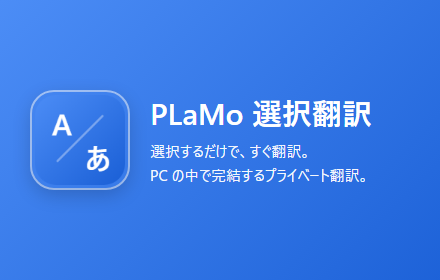
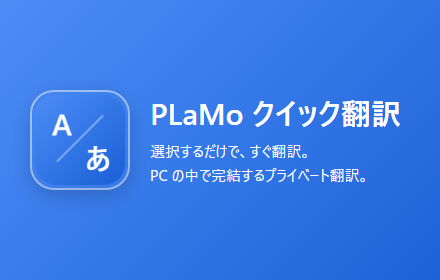
1.3.0: 名前を「PLaMo クイック翻訳」に変更(ストア公開後にリリース予定)
- manifest / 設定画面 / 説明書 / README / プライバシーポリシー / ストア掲載文の名前を変更
- プロモーション タイル画像を作り直し
- 自動起動のショートカット名を変更。旧名「PLaMo 選択翻訳サーバー.lnk」も登録・解除時に削除する

Changed region(s): [[0.5614, 0.3429, 0.9159, 0.4571]]

diff --git a/options.html b/options.html
@@ -3,7 +3,7 @@
 <head>
 <meta charset="utf-8">
 <meta name="viewport" content="width=device-width, initial-scale=1">
-<title>PLaMo 選択翻訳 設定</title>
+<title>PLaMo クイック翻訳 設定</title>
 <style>
   :root{--fg:#1f2328;--muted:#59636e;--line:#d0d7de;--accent:#1a73e8;--bg:#fff;--code:#f3f5f7;--ok:#1a7f37;--ng:#cf222e}
   @media (prefers-color-scheme:dark){:root{--fg:#e6edf3;--muted:#9198a1;--line:#3d444d;--accent:#4493f8;--bg:#16181c;--code:#22262c;--ok:#3fb950;--ng:#f85149}}
@@ -32,7 +32,7 @@
 </style>
 </head>
 <body>
-<h1><img src="icons/icon48.png" alt="">PLaMo 選択翻訳</h1>
+<h1><img src="icons/icon48.png" alt="">PLaMo クイック翻訳</h1>
 <p class="lead">ページ上のテキストを選択すると、PC 上で動かす PLaMo 3 Translate がすぐに翻訳します。初期設定では、翻訳する文章は PC の外に送られません(PC 以外のサーバーを設定した場合は、選択した文章とページタイトルがそのサーバーに送られます)。</p>
 
 <h2>はじめに: 翻訳サーバーの準備(Windows)</h2>

diff --git a/store/promo-tile.html b/store/promo-tile.html
@@ -9,5 +9,5 @@
 </style></head>
 <body>
   <img src="../icons/icon128.png">
-  <div><h1>PLaMo 選択翻訳</h1><p>選択するだけで、すぐ翻訳。<br>PC の中で完結するプライベート翻訳。</p></div>
+  <div><h1>PLaMo クイック翻訳</h1><p>選択するだけで、すぐ翻訳。<br>PC の中で完結するプライベート翻訳。</p></div>
 </body></html>

diff --git a/store/STORE_LISTING.md b/store/STORE_LISTING.md
@@ -93,5 +93,5 @@ This extension sends the selected text only to a translation server running on t
 
 ## 審査で注意すること
 
-- 名前に「PLaMo」(Preferred Networks の商標の可能性あり)を含めています。商標の扱いで指摘を受けた場合は、「選択翻訳 for PLaMo」のように、公式製品ではないとわかる名前に変えるのが無難です。
+- 名前に「PLaMo」(Preferred Networks の商標の可能性あり)を含めています。商標の扱いで指摘を受けた場合は、「クイック翻訳 for PLaMo」のように、公式製品ではないとわかる名前に変えるのが無難です。
 - 審査担当者は翻訳サーバーを用意しないことが多いため、「サーバーがないと動かない」ことを説明欄と注記に明記しています。

diff --git a/PRIVACY.md b/PRIVACY.md
@@ -1,4 +1,4 @@
-# プライバシーポリシー(PLaMo 選択翻訳)
+# プライバシーポリシー(PLaMo クイック翻訳)
 
 最終更新日: 2026 年 11 月 6 日
 

diff --git a/README.md b/README.md
@@ -1,4 +1,4 @@
-# PLaMo 選択翻訳
+# PLaMo クイック翻訳
 
 **Built with PLaMo**
 
